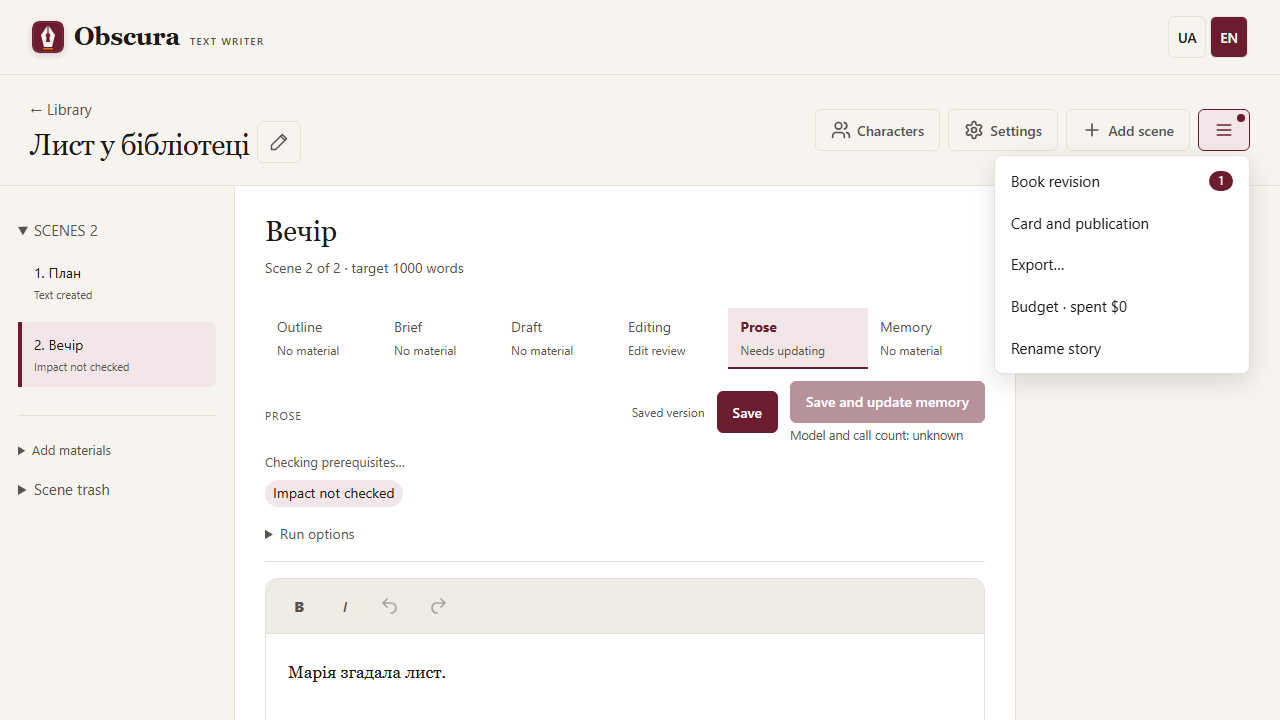
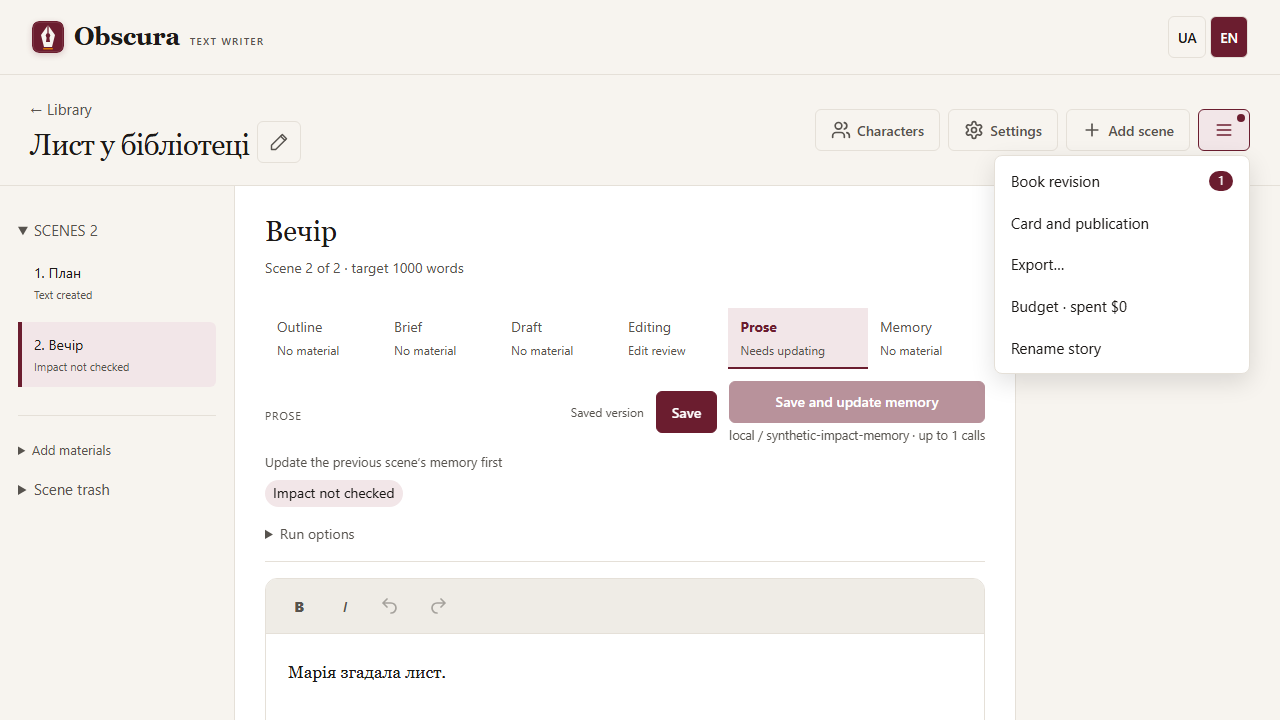
fix(workspace): final review findings for the simplified workspace (#89)
- review card under the sticky block, not inside it
- story menu never clipped at mobile width
- Budget menu item opens Settings → Budget (?section=budget)
- opening a scene from Book revision uses a new tab, so unsaved review choices survive
- workspace review card only when the session waits for the author, not while it runs
- flaky browser teardown: unrouteAll after route-fulfilling tests

Changed region(s): [[0.4375, 0.5194, 0.7812, 0.6111], [0.2188, 0.6111, 0.375, 0.7028], [0.2188, 0.7333, 0.2812, 0.7639]]

diff --git a/src/storygen/web/templates/story.html b/src/storygen/web/templates/story.html
@@ -1,10 +1,10 @@
 {% extends "base.html" %}{% block title %}{{story.title}} — Obscura{% endblock %}{% block content %}<link rel="stylesheet" href="/static/rich-editor.css">
-<div id="workspace" data-story-id="{{story.id}}"><div class="storybar"><div><a href="/" class="muted"><span data-i18n="m_26b01756a3dd">{{ t('m_26b01756a3dd') }}</span></a><div class="story-title-row"><h1 id="story-title">{{story.title}}</h1><button id="rename-story" type="button" class="secondary story-title-edit" aria-label="{{ t('m_42fc172b39c9') }}" title="{{ t('m_42fc172b39c9') }}" data-i18n-attrs='{"aria-label": "m_42fc172b39c9", "title": "m_42fc172b39c9"}'><svg viewBox="0 0 24 24" width="20" height="20" fill="none" stroke="currentColor" stroke-width="1.75" stroke-linecap="round" stroke-linejoin="round" aria-hidden="true"><path d="m16 3 5 5-13 13H3v-5Z"/><path d="m14 5 5 5"/></svg></button><form id="story-title-form" hidden><label class="sr-only" for="story-title-input"><span data-i18n="m_249c337f3e51">{{ t('m_249c337f3e51') }}</span></label><input id="story-title-input" name="title" maxlength="300" required autocomplete="off" aria-describedby="story-title-error"><button id="story-title-submit" type="submit"><span data-i18n="m_e40fc0b582e3">{{ t('m_e40fc0b582e3') }}</span></button><small class="muted"><span data-i18n="m_308df7133e1e">{{ t('m_308df7133e1e') }}</span></small></form></div><p id="story-title-error" role="alert"></p></div><div class="actions story-actions"><a id="workspace-characters" class="button secondary icon-button" href="/stories/{{story.id}}/characters" aria-label="{{ t('characters.nav') }}" title="{{ t('characters.nav') }}" data-i18n-attrs='{"aria-label": "characters.nav", "title": "characters.nav"}' ><span class="icon icon-users" aria-hidden="true"></span><span class="icon-label" data-i18n="characters.nav">{{ t('characters.nav') }}</span></a><a id="workspace-settings" class="button secondary icon-button" href="/stories/{{story.id}}/settings" aria-label="{{ t('m_2aac46060bb4') }}" title="{{ t('m_2aac46060bb4') }}" data-i18n-attrs='{"aria-label": "m_2aac46060bb4", "title": "m_2aac46060bb4"}' ><span class="icon icon-settings" aria-hidden="true"></span><span class="icon-label" data-i18n="m_2aac46060bb4">{{ t('m_2aac46060bb4') }}</span></a><button id="add-scene" class="secondary icon-button" aria-label="{{ t('workspace.add_scene') }}" title="{{ t('workspace.add_scene') }}" data-i18n-attrs='{"aria-label": "workspace.add_scene", "title": "workspace.add_scene"}' ><span class="icon icon-plus" aria-hidden="true"></span><span class="icon-label" data-i18n="workspace.add_scene">{{ t('workspace.add_scene') }}</span></button><div class="story-menu-wrap"><button id="story-menu-toggle" type="button" class="secondary icon-button" aria-expanded="false" aria-controls="story-menu" aria-label="{{ t('workspace.menu') }}" title="{{ t('workspace.menu') }}" data-i18n-attrs='{"aria-label": "workspace.menu", "title": "workspace.menu"}' ><span class="icon icon-menu" aria-hidden="true"></span><span class="menu-dot" hidden></span></button><nav id="story-menu" class="story-menu" hidden aria-label="{{ t('workspace.menu') }}" data-i18n-attrs='{"aria-label": "workspace.menu"}'><ul><li><a id="story-menu-revision" href="/stories/{{story.id}}/revision"><span data-i18n="workspace.menu_revision">{{ t('workspace.menu_revision') }}</span> <span id="story-menu-revision-count" class="menu-count" hidden></span></a></li><li><a id="story-menu-publication" href="/stories/{{story.id}}/publication"><span data-i18n="m_819c37ef2ba7">{{ t('m_819c37ef2ba7') }}</span></a></li><li><button id="export-story" type="button" aria-haspopup="dialog" aria-expanded="false" aria-controls="export-dialog" hidden><span data-i18n="workspace.menu_export">{{ t('workspace.menu_export') }}</span></button></li><li id="story-menu-evaluate" hidden></li><li id="story-menu-reports" hidden></li><li><a id="story-menu-budget" href="/stories/{{story.id}}/settings#settings-budget-content"><span data-i18n="workspace.budget_unknown">{{ t('workspace.budget_unknown') }}</span></a></li><li><button id="story-menu-rename" type="button"><span data-i18n="m_42fc172b39c9">{{ t('m_42fc172b39c9') }}</span></button></li></ul></nav></div></div></div>
+<div id="workspace" data-story-id="{{story.id}}"><div class="storybar"><div><a href="/" class="muted"><span data-i18n="m_26b01756a3dd">{{ t('m_26b01756a3dd') }}</span></a><div class="story-title-row"><h1 id="story-title">{{story.title}}</h1><button id="rename-story" type="button" class="secondary story-title-edit" aria-label="{{ t('m_42fc172b39c9') }}" title="{{ t('m_42fc172b39c9') }}" data-i18n-attrs='{"aria-label": "m_42fc172b39c9", "title": "m_42fc172b39c9"}'><svg viewBox="0 0 24 24" width="20" height="20" fill="none" stroke="currentColor" stroke-width="1.75" stroke-linecap="round" stroke-linejoin="round" aria-hidden="true"><path d="m16 3 5 5-13 13H3v-5Z"/><path d="m14 5 5 5"/></svg></button><form id="story-title-form" hidden><label class="sr-only" for="story-title-input"><span data-i18n="m_249c337f3e51">{{ t('m_249c337f3e51') }}</span></label><input id="story-title-input" name="title" maxlength="300" required autocomplete="off" aria-describedby="story-title-error"><button id="story-title-submit" type="submit"><span data-i18n="m_e40fc0b582e3">{{ t('m_e40fc0b582e3') }}</span></button><small class="muted"><span data-i18n="m_308df7133e1e">{{ t('m_308df7133e1e') }}</span></small></form></div><p id="story-title-error" role="alert"></p></div><div class="actions story-actions"><a id="workspace-characters" class="button secondary icon-button" href="/stories/{{story.id}}/characters" aria-label="{{ t('characters.nav') }}" title="{{ t('characters.nav') }}" data-i18n-attrs='{"aria-label": "characters.nav", "title": "characters.nav"}' ><span class="icon icon-users" aria-hidden="true"></span><span class="icon-label" data-i18n="characters.nav">{{ t('characters.nav') }}</span></a><a id="workspace-settings" class="button secondary icon-button" href="/stories/{{story.id}}/settings" aria-label="{{ t('m_2aac46060bb4') }}" title="{{ t('m_2aac46060bb4') }}" data-i18n-attrs='{"aria-label": "m_2aac46060bb4", "title": "m_2aac46060bb4"}' ><span class="icon icon-settings" aria-hidden="true"></span><span class="icon-label" data-i18n="m_2aac46060bb4">{{ t('m_2aac46060bb4') }}</span></a><button id="add-scene" class="secondary icon-button" aria-label="{{ t('workspace.add_scene') }}" title="{{ t('workspace.add_scene') }}" data-i18n-attrs='{"aria-label": "workspace.add_scene", "title": "workspace.add_scene"}' ><span class="icon icon-plus" aria-hidden="true"></span><span class="icon-label" data-i18n="workspace.add_scene">{{ t('workspace.add_scene') }}</span></button><div class="story-menu-wrap"><button id="story-menu-toggle" type="button" class="secondary icon-button" aria-expanded="false" aria-controls="story-menu" aria-label="{{ t('workspace.menu') }}" title="{{ t('workspace.menu') }}" data-i18n-attrs='{"aria-label": "workspace.menu", "title": "workspace.menu"}' ><span class="icon icon-menu" aria-hidden="true"></span><span class="menu-dot" hidden></span></button><nav id="story-menu" class="story-menu" hidden aria-label="{{ t('workspace.menu') }}" data-i18n-attrs='{"aria-label": "workspace.menu"}'><ul><li><a id="story-menu-revision" href="/stories/{{story.id}}/revision"><span data-i18n="workspace.menu_revision">{{ t('workspace.menu_revision') }}</span> <span id="story-menu-revision-count" class="menu-count" hidden></span></a></li><li><a id="story-menu-publication" href="/stories/{{story.id}}/publication"><span data-i18n="m_819c37ef2ba7">{{ t('m_819c37ef2ba7') }}</span></a></li><li><button id="export-story" type="button" aria-haspopup="dialog" aria-expanded="false" aria-controls="export-dialog" hidden><span data-i18n="workspace.menu_export">{{ t('workspace.menu_export') }}</span></button></li><li id="story-menu-evaluate" hidden></li><li id="story-menu-reports" hidden></li><li><a id="story-menu-budget" href="/stories/{{story.id}}/settings?section=budget"><span data-i18n="workspace.budget_unknown">{{ t('workspace.budget_unknown') }}</span></a></li><li><button id="story-menu-rename" type="button"><span data-i18n="m_42fc172b39c9">{{ t('m_42fc172b39c9') }}</span></button></li></ul></nav></div></div></div>
 <div class="workbench"><aside class="scene-panel"><details id="scene-list-section" open><summary><span data-i18n="m_6a99495702ec">{{ t('m_6a99495702ec') }}</span> <span id="scene-count"></span></summary><select id="scene-select-mobile" aria-label="{{ t('m_f0f1417db6de') }}" data-i18n-attrs='{"aria-label": "m_f0f1417db6de"}'></select><nav id="scene-list"></nav></details><details class="importer" open><summary><span data-i18n="m_4aa3221c15d4">{{ t('m_4aa3221c15d4') }}</span></summary><div class="import-template-links"><span class="muted"><span data-i18n="m_85029e1c12d1">{{ t('m_85029e1c12d1') }}</span></span><a href="/static/templates/{{ 'story-plan-en.md' if story.language=='en' else 'story-plan.md' }}" download="obscura-plan.md"><span data-i18n="m_23766d24efd9">{{ t('m_23766d24efd9') }}</span></a><a href="/static/templates/{{ 'characters-en.md' if story.language=='en' else 'characters.md' }}" download="obscura-characters.md"><span data-i18n="m_a0828dcd0440">{{ t('m_a0828dcd0440') }}</span></a></div><form id="import-sources"><label><span data-i18n="m_3146141c9367">{{ t('m_3146141c9367') }}</span><input type="file" name="plan" accept=".md,.txt"></label><label><span data-i18n="m_fda6febf7bc7">{{ t('m_fda6febf7bc7') }}</span><input type="file" name="characters" accept=".md,.txt"></label><button><span data-i18n="m_68f804fb7941">{{ t('m_68f804fb7941') }}</span></button></form><p class="muted" data-i18n="imports.unnumbered">{{ t('imports.unnumbered') }}</p><section id="import-results" class="import-results" role="status" aria-live="polite" hidden></section><div id="import-journal" class="import-journal-host"></div></details></aside>
 <main class="editor-panel"><header class="scene-heading"><h2 id="scene-title"><span data-i18n="m_e9afe8d51b91">{{ t('m_e9afe8d51b91') }}</span></h2><p id="workspace-scene-meta"><span data-i18n="m_6be5cd9f46ec">{{ t('m_6be5cd9f46ec') }}</span></p></header>
 <div class="workspace-sticky"><div id="mode-tabs" class="tabs" role="tablist" aria-label="{{ t('m_566dc8de3f68') }}" data-i18n-attrs='{"aria-label": "m_566dc8de3f68"}'></div>
-<div class="editor-toolbar"><span class="material-label" id="current-kind"><span data-i18n="m_9ecb77f7d846">{{ t('m_9ecb77f7d846') }}</span></span><span id="save-state" class="muted" role="status"></span><button id="save-text" disabled><span data-i18n="m_bf610d493cb4">{{ t('m_bf610d493cb4') }}</span></button><button id="workspace-primary" disabled aria-describedby="workspace-hint"><span data-i18n="m_f0f1417db6de">{{ t('m_f0f1417db6de') }}</span></button></div><p id="workspace-hint" role="status"></p><p id="workspace-compact-status" class="workspace-compact-status" role="status"></p><section id="workspace-status-row" class="workspace-status-row" aria-label="{{ t('m_f9396174436c') }}" data-i18n-attrs='{"aria-label": "m_f9396174436c"}'><p id="workspace-scene-status" class="scene-status-badge"></p><div id="run-status"></div><div id="run-actions"></div><a id="workspace-error-settings" class="button secondary" hidden><span data-i18n="m_d8f26ba2b72c">{{ t('m_d8f26ba2b72c') }}</span></a><div id="review-attention" class="review-attention" hidden><p><a href="/stories/{{story.id}}/revision" data-i18n="workspace.review_attention">{{ t('workspace.review_attention') }}</a></p><section id="review-session" data-scope="attention" aria-live="polite" hidden></section></div><details id="run-options" class="run-options"><summary><span data-i18n="workspace.run_options">{{ t('workspace.run_options') }}</span></summary></details></section></div>
-<section id="workspace-material" role="tabpanel" aria-labelledby="current-kind"><section id="memory-view" aria-label="{{ t('m_e8666e7283dd') }}" data-i18n-attrs='{"aria-label": "m_e8666e7283dd"}' hidden></section><section id="brief-proposal" hidden></section><textarea id="editor" aria-labelledby="scene-title current-kind" spellcheck="true" placeholder="{{ t('m_af47cedafa12') }}" data-i18n-attrs='{"placeholder": "m_af47cedafa12"}'></textarea><section id="brief-link" hidden></section><section id="author-comments" hidden></section><section id="ghost-entry" hidden></section><section id="ghost-mode" hidden></section><section id="assisted-writing" hidden></section><section id="assisted-review" hidden></section><section id="scene-statistics" class="scene-statistics" aria-label="{{ t('m_f6dc49558ea8') }}" data-i18n-attrs='{"aria-label": "m_f6dc49558ea8"}'></section><details class="workspace-output"><summary><span data-i18n="m_b0c41900f0c9">{{ t('m_b0c41900f0c9') }}</span></summary><pre id="live-text" hidden></pre></details><div id="copyedit-panel" hidden></div></section>
+<div class="editor-toolbar"><span class="material-label" id="current-kind"><span data-i18n="m_9ecb77f7d846">{{ t('m_9ecb77f7d846') }}</span></span><span id="save-state" class="muted" role="status"></span><button id="save-text" disabled><span data-i18n="m_bf610d493cb4">{{ t('m_bf610d493cb4') }}</span></button><button id="workspace-primary" disabled aria-describedby="workspace-hint"><span data-i18n="m_f0f1417db6de">{{ t('m_f0f1417db6de') }}</span></button></div><p id="workspace-hint" role="status"></p><p id="workspace-compact-status" class="workspace-compact-status" role="status"></p><section id="workspace-status-row" class="workspace-status-row" aria-label="{{ t('m_f9396174436c') }}" data-i18n-attrs='{"aria-label": "m_f9396174436c"}'><p id="workspace-scene-status" class="scene-status-badge"></p><div id="run-status"></div><div id="run-actions"></div><a id="workspace-error-settings" class="button secondary" hidden><span data-i18n="m_d8f26ba2b72c">{{ t('m_d8f26ba2b72c') }}</span></a><details id="run-options" class="run-options"><summary><span data-i18n="workspace.run_options">{{ t('workspace.run_options') }}</span></summary></details></section></div>
+<div id="review-attention" class="review-attention" hidden><p><a href="/stories/{{story.id}}/revision" data-i18n="workspace.review_attention">{{ t('workspace.review_attention') }}</a></p><section id="review-session" data-scope="attention" aria-live="polite" hidden></section></div><section id="workspace-material" role="tabpanel" aria-labelledby="current-kind"><section id="memory-view" aria-label="{{ t('m_e8666e7283dd') }}" data-i18n-attrs='{"aria-label": "m_e8666e7283dd"}' hidden></section><section id="brief-proposal" hidden></section><textarea id="editor" aria-labelledby="scene-title current-kind" spellcheck="true" placeholder="{{ t('m_af47cedafa12') }}" data-i18n-attrs='{"placeholder": "m_af47cedafa12"}'></textarea><section id="brief-link" hidden></section><section id="author-comments" hidden></section><section id="ghost-entry" hidden></section><section id="ghost-mode" hidden></section><section id="assisted-writing" hidden></section><section id="assisted-review" hidden></section><section id="scene-statistics" class="scene-statistics" aria-label="{{ t('m_f6dc49558ea8') }}" data-i18n-attrs='{"aria-label": "m_f6dc49558ea8"}'></section><details class="workspace-output"><summary><span data-i18n="m_b0c41900f0c9">{{ t('m_b0c41900f0c9') }}</span></summary><pre id="live-text" hidden></pre></details><div id="copyedit-panel" hidden></div></section>
 <details id="workspace-history"><summary><span data-i18n="m_1653560c8db6">{{ t('m_1653560c8db6') }}</span></summary><div id="version-panel"></div></details>
 <details class="workspace-extra"><summary><span data-i18n="m_788d4b38107e">{{ t('m_788d4b38107e') }}</span></summary><button id="workspace-edit-prose" class="secondary" hidden><span data-i18n="m_9c2211f84d1e">{{ t('m_9c2211f84d1e') }}</span></button><button id="workspace-use-draft" class="secondary"><span data-i18n="m_bcc45ed5922a">{{ t('m_bcc45ed5922a') }}</span></button><div id="workspace-scene-actions"></div><div id="generation-controls" hidden></div></details></main>
 <aside class="context-panel"><details class="tool-section" data-section="scene"><summary><span data-i18n="workspace.scene_section">{{ t('workspace.scene_section') }}</span></summary><div id="context-content"><p class="muted"><span data-i18n="m_8fe8cb15943c">{{ t('m_8fe8cb15943c') }}</span></p></div></details><details class="tool-section" data-section="evaluation" id="evaluation-section" hidden><summary><span data-i18n="workspace.evaluation_section">{{ t('workspace.evaluation_section') }}</span></summary><div id="evaluation-panel"></div></details></aside></div></div>

diff --git a/src/storygen/web/static/app.css b/src/storygen/web/static/app.css
@@ -513,6 +513,7 @@ body.ghost-open #notice { z-index: 70; }
 .menu-dot { position: absolute; top: 4px; right: 4px; width: 8px; height: 8px; border-radius: 50%; background: var(--accent-primary); }
 .story-menu { position: absolute; right: 0; top: calc(100% + 4px); z-index: 30; min-width: 16rem; max-width: min(22rem, calc(100vw - 32px)); padding: 0.25rem; background: var(--bg-surface); border: 1px solid var(--border-color); border-radius: 8px; box-shadow: 0 8px 24px rgb(0 0 0 / 0.12); }
 .story-menu[hidden] { display: none; }
+@media (max-width: 650px) { .story-menu { left: auto; right: 0; } .storybar .story-actions { justify-content: flex-end; } }
 .story-menu ul { list-style: none; margin: 0; padding: 0; }
 .story-menu li > a, .story-menu li > button { display: flex; width: 100%; align-items: center; justify-content: space-between; gap: 0.5rem; padding: 0.55rem 0.75rem; border: 0; border-radius: 6px; background: transparent; color: inherit; text-align: left; text-decoration: none; font: inherit; }
 .story-menu li > a:hover, .story-menu li > button:hover, .story-menu li > a:focus-visible, .story-menu li > button:focus-visible { background: var(--accent-soft); }

diff --git a/src/storygen/web/static/review-session.js b/src/storygen/web/static/review-session.js
@@ -3,6 +3,7 @@ import {t,diagnostic} from './i18n.js';
 import {api,json,notice} from './api.js';
 import {state,refresh,selectScene} from './editor.js';
 import {invokeWorkspaceCommand} from './workspace-commands.js';
+import {reviewNeedsAuthor} from './workspace-status.js';
 
 const host=document.querySelector('#review-session');
 let current=null,session=null,busy=false,epoch=0,opened=null,policies=null;
@@ -31,7 +32,7 @@ async function priority(material,preferred,superseded,revokeId=null){
 }
 // #89: in the workspace the card shows only while the session waits for the author; the revision page shows it always.
 const attentionOnly=host?.dataset?.scope==='attention';
-const waiting=run=>['queued','running','paused','needs_review','pause_requested','cancellation_requested','interrupted','alternative','failed'].includes(run?.state);
+const waiting=reviewNeedsAuthor;
 function render(){
   host.replaceChildren();host.hidden=!session||(attentionOnly&&!waiting(session));
   if(attentionOnly){const box=host.closest?.('#review-attention');if(box)box.hidden=host.hidden}

diff --git a/src/storygen/web/static/revision-context.js b/src/storygen/web/static/revision-context.js
@@ -13,4 +13,6 @@ export function sceneUrl(scene){
   const material=scene.heads?.prose?'prose':'brief';
   return `/stories/${encodeURIComponent(state.storyId)}?`+new URLSearchParams({scene:scene.id,material});
 }
-export async function selectScene(scene){location.assign(sceneUrl(scene))}
+// A new tab keeps this page, so unsaved review choices survive opening a scene; coming back re-reads the story.
+export async function selectScene(scene){window.open(sceneUrl(scene),'_blank','noopener')}
+window.addEventListener('focus',()=>{if(state.view)refresh().catch(()=>{})});

diff --git a/src/storygen/web/static/workspace-status.js b/src/storygen/web/static/workspace-status.js
@@ -11,3 +11,5 @@ export function sceneStatusKey(scene,impactStatus={}){
   return heads.prose?'prose':'draft';
 }
 export function sceneStatus(scene,impactStatus){const key=sceneStatusKey(scene,impactStatus);return {key,label:t(KEYS[key])}}
+// #89: the workspace shows a sequential review card only while that session waits for the author (a decision, a resume or a retry), not while it runs.
+export function reviewNeedsAuthor(run){return ['needs_review','paused','pause_requested','failed','interrupted','alternative'].includes(run?.state)}

diff --git a/tests/web/test_workspace_layout_ui.py b/tests/web/test_workspace_layout_ui.py
@@ -32,9 +32,12 @@ def page(tmp_path,path='/stories/{id}'):
 @pytest.mark.req('R20-WORKSPACE')
 def test_run_controls_and_limit_live_in_the_status_row(tmp_path):
     tree,html=page(tmp_path)
-    for id in ['run-status','run-actions','workspace-error-settings','run-options','review-attention','workspace-scene-status']:
+    for id in ['run-status','run-actions','workspace-error-settings','run-options','workspace-scene-status']:
         assert id in tree.ancestors,id
         assert {'.workspace-sticky','#workspace-status-row'}<=tree.ancestors[id],id
+    # A waiting review card can be long: it sits right under the sticky block, never inside it (final review #1).
+    assert '.workspace-sticky' not in tree.ancestors['review-attention']
+    assert '#workspace' in tree.ancestors['review-attention']
     assert 'workspace-status"' not in html.split('class="context-panel"')[1]
 
 
@@ -49,6 +52,7 @@ def test_story_toolbar_has_three_icon_actions_and_a_disclosure_menu(tmp_path):
     for id in ['story-menu-revision','story-menu-publication','export-story','story-menu-evaluate','story-menu-reports','story-menu-budget','story-menu-rename']:
         assert '#story-menu' in tree.ancestors[id],id
     assert '#export-dialog' in tree.ancestors['export-form']
+    assert tree.attrs['story-menu-budget']['href'].endswith('/settings?section=budget')  # settingsRoute reads ?section= only
     for id in ['impact-panel','impact-reports','impact-preview']:
         assert id not in tree.attrs,id
     assert '#review-attention' in tree.ancestors['review-session']

diff --git a/docs/sequential-review.md b/docs/sequential-review.md
@@ -4,7 +4,7 @@
 
 Старі завдання та проза без збереженої історичної бази перевіряються в режимі **Поточні передумови**: чинні плани, канон, описи персонажів, завдання сцени для прози та попередні сцени. У попередньому перегляді й звіті явно зазначено, що порівняння «було → стало» не виконувалося. Початкова історія не переписується. Чистий повний пошук або ваше рішення робить матеріал актуальним для цих передумов; наступна зміна джерел знову потребуватиме перевірки. Пошкоджені джерела й невалідна пам’ять залишаються блокерами.
 
-На сторінці твору відкрийте меню **☰ «Дії твору» → «Редагування книги» → «Перевірити вплив»**. Поки сесія чекає на ваше рішення, її картка також показується в рядку стану редактора, щоб правити сцену поруч із рішеннями. Попередній перегляд показує планувальника й приблизну кількість викликів початкового пошуку. Наступні сцени плануються після завершення попередніх. Оновлення пам’яті можуть потребувати додаткових викликів. Для платних ролей задайте загальний ліміт сесії; також діє бюджет оповідання. Перегляд сторінки чи налаштувань не запускає модель.
+На сторінці твору відкрийте меню **☰ «Дії твору» → «Редагування книги» → «Перевірити вплив»**. Поки сесія чекає на ваше рішення, її картка також показується над текстом сцени, під рядком стану, щоб правити сцену поруч із рішеннями. Попередній перегляд показує планувальника й приблизну кількість викликів початкового пошуку. Наступні сцени плануються після завершення попередніх. Оновлення пам’яті можуть потребувати додаткових викликів. Для платних ролей задайте загальний ліміт сесії; також діє бюджет оповідання. Перегляд сторінки чи налаштувань не запускає модель.
 
 Після запуску система йде сценами по порядку. Повний успішний пошук без зауважень автоматично робить сцену актуальною. Це практичний модельний висновок, який може помилятися; він не є гарантією літературної якості.
 

diff --git a/docs/superpowers/specs/2026-11/2026-11-10-workspace-simplification-design.md b/docs/superpowers/specs/2026-11/2026-11-10-workspace-simplification-design.md
@@ -142,7 +142,7 @@ Spec-review: codex/gpt-6.1-sol @ df995f3 (author: claude) — 5 findings: 5 fixe
 
 11.11.2026, під час реалізації (без повторного крос-рев'ю):
 
-- Картка послідовної перевірки впливу показується й у рядку стану робочого простору, поки сесія чекає рішення автора (`#review-attention`, `data-scope=attention`): правити сцену треба поруч із рішеннями. Сторінка «Редагування книги» лишається повним місцем перевірки. Відображено в SPEC IMPACT-UI.
+- Картка послідовної перевірки впливу показується й у робочому просторі під закріпленим рядком стану (не всередині нього: картка буває довгою), поки сесія чекає дії автора (рішення, відновлення чи повтору; не під час виконання) (`#review-attention`, `data-scope=attention`): правити сцену треба поруч із рішеннями. Сторінка «Редагування книги» лишається повним місцем перевірки. Відображено в SPEC IMPACT-UI.
 - Вкладки етапів зберігають власний стан матеріалу (актуальний/застарілий); спільний словник стану покриває список сцен і рядок стану.
 - Перейменування лишається олівцем біля назви; пункт меню «Перейменувати» запускає його.
 - Журнал імпорту переміщено в розділ імпорту списку сцен, а не в бічну панель сцени.

diff --git a/docs/en/sequential-review.md b/docs/en/sequential-review.md
@@ -4,7 +4,7 @@
 
 Older briefs and prose without a saved historical baseline use **Current premises**: current plans, canon, character descriptions, the scene brief for prose, and earlier scenes. The preview and report explicitly state that no before-and-after comparison was performed. Original history is preserved. A complete clean search or your decision makes the material current for these premises; later source changes require review again. Corrupt sources and invalid memory remain blockers.
 
-Open **☰ Story actions → Book revision → Check impact** on the story page. While the session waits for your decision, its card is also shown in the editor status row, so you can edit the scene next to the decisions. The preview shows the planner and an approximate initial search call count. Later scenes are planned after earlier scenes finish. Memory updates may require additional calls. For paid roles, enter a session spending limit; the story budget also applies. Opening a page or settings never starts a model call.
+Open **☰ Story actions → Book revision → Check impact** on the story page. While the session waits for your decision, its card is also shown above the scene text, just below the status row, so you can edit the scene next to the decisions. The preview shows the planner and an approximate initial search call count. Later scenes are planned after earlier scenes finish. Memory updates may require additional calls. For paid roles, enter a session spending limit; the story budget also applies. Opening a page or settings never starts a model call.
 
 The session proceeds in scene order. A complete, successful search without concerns automatically marks the scene current. This is a practical model assessment that can miss problems, not a guarantee of literary quality.
 

diff --git a/docs/en/editor-workflow.md b/docs/en/editor-workflow.md
@@ -32,7 +32,7 @@ A model proposal with exactly scene_number/change is preserved as “Сцена 
 
 The top row has three icon actions: **Characters**, **Settings** and **Add scene** (labelled on wide screens). Story-wide actions live in the **☰ Story actions** menu: **Book revision** (a separate page with **← Back to the story**; the number next to it counts materials waiting for review), **Card and publication**, **Export…** (a dialog), story evaluation and reports, a budget line linking to settings, and rename. The menu works from the keyboard; `Escape` closes it and returns focus.
 
-A status row above the scene text shows the scene status, run progress and run controls; **Run options** holds the next-run limit. When a sequential impact review waits for your decision, its card appears here too, next to the text. The side panel is about the scene only: **Scene settings** and **Scene evaluation** collapse and remember their state in this browser; evaluation is hidden when the evaluator is off. The import journal opens inside the import section of the scene list.
+A status row above the scene text shows the scene status, run progress and run controls; **Run options** holds the next-run limit. When a sequential impact review waits for your decision, its card appears just below the status row, next to the text. The side panel is about the scene only: **Scene settings** and **Scene evaluation** collapse and remember their state in this browser; evaluation is hidden when the evaluator is off. The import journal opens inside the import section of the scene list.
 
 ![Workspace with the Story actions menu](../images/workspace-menu-desktop.png)
 
